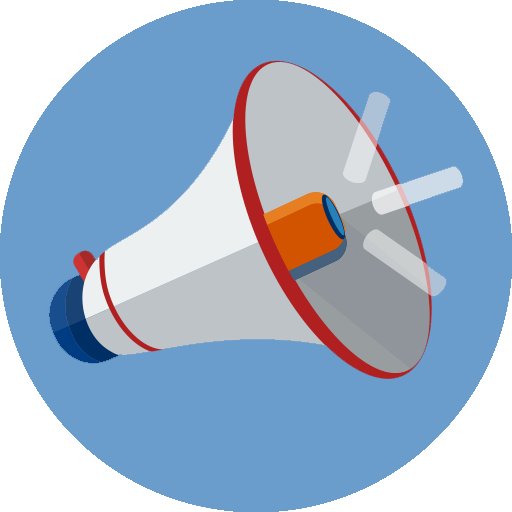
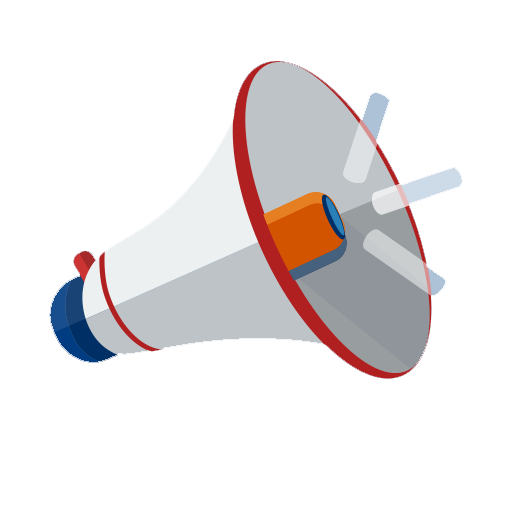
change addcombination trigger action defult image

diff --git a/src/containers/AddCombination/AddCombination.js b/src/containers/AddCombination/AddCombination.js
@@ -26,10 +26,10 @@ class AddCombination extends React.Component {
       if (event.id == 'close') {
         Alert.alert(
           'PostureLinking',
-          'Äú´_¶¨ÒªêPé]ÐÂÔö½MºÏ',
+          '您確定要關閉新增組合',
           [
-            {text: 'È¡Ïû', onPress: () => null},
-            {text: '´_¶¨', onPress: () => this.closeScreen()},
+            {text: '取消', onPress: () => null},
+            {text: '確定', onPress: () => this.closeScreen()},
           ],
           { cancelable: false }
         )
@@ -76,7 +76,7 @@ class AddCombination extends React.Component {
     if(this.props.actionId !='' && this.props.triggerId !='') {
       return(
         <View style={{flex:1, marginTop:10}}>
-          <Text style={{fontSize:16, height:20 }}>½MºÏÃèÊö</Text>
+          <Text style={{fontSize:16, height:20 }}>組合描述</Text>
           <TextInput
             style={{borderWidth:1, borderRadius:5, borderColor:'#b2b6b2', height:40, fontSize:25}}
             maxLength= {100}
@@ -85,7 +85,7 @@ class AddCombination extends React.Component {
           />
           <TouchableOpacity onPress={()=>this.showAlert()}>
             <View style={{marginTop:20, borderWidth:0, backgroundColor:'#59d059', height:50, alignItems:'center',  justifyContent: 'center'}}>
-              <Text style={{textAlign:'center', fontSize:25, color:'#FFF'}}>½MºÏ</Text>
+              <Text style={{textAlign:'center', fontSize:25, color:'#FFF'}}>組合</Text>
             </View>
           </TouchableOpacity>
         </View>
@@ -98,10 +98,10 @@ class AddCombination extends React.Component {
   showAlert() {
     Alert.alert(
           'PostureLinking',
-          'Äú´_¶¨ÒªÐÂÔö½MºÏ',
+          '您確定要新增組合',
           [
-            {text: 'È¡Ïû', onPress: () => null},
-            {text: '´_¶¨', onPress: () => this.handleOK()},
+            {text: '取消', onPress: () => null},
+            {text: '確定', onPress: () => this.handleOK()},
           ],
           { cancelable: false }
         )
@@ -132,8 +132,8 @@ class AddCombination extends React.Component {
 
   getIcon(name){
     let icon = [
-      { name: 'Trigger', icon: require('../../../res/img/serviceIcon/trigger.png'),color: '#F39FB3'  },
-      { name: 'Action', icon: require('../../../res/img/serviceIcon/action.png'),color: '#F3D29C'  },
+      { name: 'Trigger', icon: require('../../../res/img/serviceIcon/defult.png'),color: '#F39FB3'  },
+      { name: 'Action', icon: require('../../../res/img/serviceIcon/defult.png'),color: '#F3D29C'  },
       { name: 'button', icon: require('../../../res/img/serviceIcon/button.png'),color: '#A0A9B5'  },
       { name: 'line notify', icon: require('../../../res/img/serviceIcon/line.png'),color: '#4ECD00' },
       { name: 'line messaging', icon: require('../../../res/img/serviceIcon/line.png'),color: '#4ECD00' },
@@ -172,7 +172,7 @@ class AddCombination extends React.Component {
               <ActionVerImg size={1} icon={this.getIcon(actionName).icon} color={this.getIcon(actionName).color} />
             </TouchableOpacity>
           :
-            <ActionVerImg size={1} icon={this.getIcon(actionName).icon} color= '#b2b4b5' />
+            <ActionVerImg size={1} icon={require('../../../res/img/serviceIcon/action.png')} color= '#b2b4b5' />
           }
           </View>
         </View>

diff --git a/src/components/CombinationRow/CombinationRow.js b/src/components/CombinationRow/CombinationRow.js
@@ -22,8 +22,9 @@ const CombinationRow = ({data, onStatusChangeCallback, onEdit}) => {
     { id: '1', icon: require('../../../res/img/serviceIcon/button.png'),color: '#A0A9B5'  },
     { id: '2', icon: require('../../../res/img/serviceIcon/action.png'),color: '#F3D29C' },
     { id: '3', icon: require('../../../res/img/serviceIcon/line.png'),color: '#4ECD00' },
-    { id: '4', icon: require('../../../res/img/serviceIcon/gmail.png'),color: '#DB4639' },
-    { id: '5', icon: require('../../../res/img/serviceIcon/line.png'),color: '#4ECD00'  }
+    { id: '4', icon: require('../../../res/img/serviceIcon/notify.png'),color: '#6A9CCC'  },
+    { id: '5', icon: require('../../../res/img/serviceIcon/line.png'),color: '#4ECD00'  },
+    { id: '6', icon: require('../../../res/img/serviceIcon/gmail.png'),color: '#DB4639' }
   ];
 
   let getImageSetting = (id) => {
@@ -62,7 +63,7 @@ const CombinationRow = ({data, onStatusChangeCallback, onEdit}) => {
       </View>
       <View style={styles.content}>
         <View style={[styles.name,{opacity: opacity}]}>
-          <Text style={styles.text}>{data.trigger.serviceId}安安你好{data.action.serviceId}</Text>
+          <Text style={styles.text}>{data.trigger.serviceId}+{data.action.serviceId}安安我是" {data.description} "你好</Text>
         </View>
         <View style={styles.switch}>
           <Switch

diff --git a/src/components/TriggerVerImg/TriggerVerImg.js b/src/components/TriggerVerImg/TriggerVerImg.js
@@ -3,7 +3,7 @@ import { View, Image, TouchableOpacity } from 'react-native';
 
 const InsertTrigger = ({ size=1, icon=require('../../../res/img/serviceIcon/trigger.png'), color='#F39FB3' }) => {
 	size = size * 200;
-	let iconWidth=size*0.3, iconHeight=size*0.3, iconTop=size*0.22;
+	let iconWidth=size*0.45, iconHeight=size*0.45, iconTop=size*0.2;
 
 	if(icon == require('../../../res/img/serviceIcon/trigger.png')){
 		iconWidth=size*0.5;

diff --git a/src/components/ActionVerImg/ActionVerImg.js b/src/components/ActionVerImg/ActionVerImg.js
@@ -3,7 +3,7 @@ import { View, Image } from 'react-native';
 
 const InsertAction = ({ size=1, icon=require('../../../res/img/serviceIcon/action.png'), color='#F3D29C' }) => {
 	size = size * 200;
-	let iconWidth=size*0.3, iconHeight=size*0.3, iconBottom=size*0.22;
+	let iconWidth=size*0.45, iconHeight=size*0.45, iconBottom=size*0.15;
 
 	if(icon == require('../../../res/img/serviceIcon/action.png')){
 		iconWidth=size*0.5;

diff --git a/src/components/Actionhorimg/Actionhorimg.js b/src/components/Actionhorimg/Actionhorimg.js
@@ -16,11 +16,11 @@ const CombinationImage = ({ icon=require('../../../res/img/serviceIcon/action.pn
 			<Image
 				source={icon}
 				style={{
-					height: height*0.34,
-					width: width*0.17,
+					height: height*0.5,
+					width: width*0.25,
 					position: 'absolute',
-					right: width*0.58,
-					top: height*0.33,
+					top: height*0.25,
+					right: width*0.55,
 					opacity: opacity
 				}}
 			/>

diff --git a/src/components/Triggerhorimg/Triggerhorimg.js b/src/components/Triggerhorimg/Triggerhorimg.js
@@ -16,11 +16,11 @@ const CombinationImage = ({ icon=require('../../../res/img/serviceIcon/action.pn
 			<Image
 				source={icon}
 				style={{
-					height: height*0.34,
-					width: width*0.17,
+					height: height*0.5,
+					width: width*0.25,
 					position: 'absolute',
-					left: width*0.13,
-					top: height*0.33,
+					top: height*0.25,
+					left: width*0.1,
 					opacity: opacity
 				}}
 			/>

diff --git a/src/screens/AddCombinationScreen/AddCombinationScreen.js b/src/screens/AddCombinationScreen/AddCombinationScreen.js
@@ -13,6 +13,11 @@ class AddCombinationScreen extends React.Component {
 
   constructor(props) {
     super(props);
+    this.props.navigator.setStyle({
+      navBarBackgroundColor: '#3FA9F5',
+      navBarTextColor: 'white',
+      navBarButtonColor: 'white'
+    });
   }
 
   render() {
